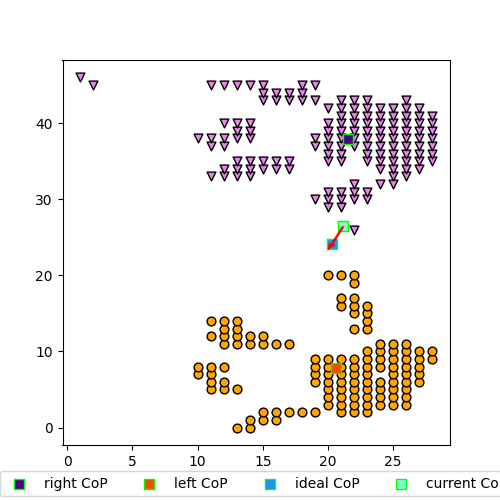
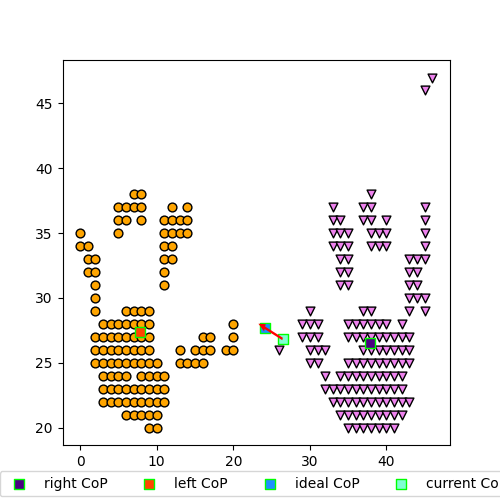
fix transformations

diff --git a/Software/Testing/haptic_assisted_inversions_device_test.py b/Software/Testing/haptic_assisted_inversions_device_test.py
@@ -55,7 +55,7 @@ class Haptic_Assisted_Inversions_Device_Mat_Test(unittest.TestCase):
 
     #make sure can find 2 clusters with a simple 2d mat
     def test_kmeans(self):
-        hands_array = np.array([[0.0, 1.0, 0.0], [0.0, 0.0, 0.0], [0.0, 2.0, 0.0]])
+        hands_array = np.array([[0.0, 0.0, 0.0], [1.0, 0.0, 2.0], [0.0, 0.0, 0.0]])
         m = Mat(hands_array)
         h = Hands()
         h.run_kmeans(m.Values, 3, 3)
@@ -64,7 +64,7 @@ class Haptic_Assisted_Inversions_Device_Mat_Test(unittest.TestCase):
 
     #make sure can find and separate 2 UNORDERED hands with a simple 2d mat
     def test_isolate_hands_unordered(self):
-        hands_array = np.array([[0.0, 1.0, 0.0], [0.0, 0.0, 0.0], [0.0, 2.0, 0.0]])
+        hands_array = np.array([[0.0, 0.0, 0.0], [1.0, 0.0, 2.0], [0.0, 0.0, 0.0]])
         m = Mat(hands_array)
 
         h = Hands()
@@ -88,15 +88,8 @@ class Haptic_Assisted_Inversions_Device_Mat_Test(unittest.TestCase):
         h.isolate_hands(m.Values)
         h.generate_cops()
 
-        # for j in range(3-1, -1, -1):
-        #     tmp = ""
-        #     for i in range(3):
-        #         tmp = tmp +   hex(int(m.Values[i][j]))[-1]
-        #     print(tmp)
-        # print("\n")
-
-        self.assertEqual(h.get_right_hand().get_points().get((1, 2)), 2.0)
-        self.assertEqual(h.get_left_hand().get_points().get((1, 0)), 1.0)
+        self.assertEqual(h.get_right_hand().get_points().get((2, 1)), 2.0)
+        self.assertEqual(h.get_left_hand().get_points().get((0, 1)), 1.0)
 
     #make sure the basic cop calculation function works
     def test_calculate_cop(self):
@@ -120,9 +113,9 @@ class Haptic_Assisted_Inversions_Device_Mat_Test(unittest.TestCase):
         h.isolate_hands(m.Values)
         h.generate_cops()
 
-        self.assertEqual(h.get_right_hand().get_cop(), [1.0, 2.0])
-        self.assertEqual(h.get_left_hand().get_cop(), [1.0, 0.0])
-        self.assertEqual(h.get_cop(), [1.0, 4.0/3.0])
+        self.assertEqual(h.get_right_hand().get_cop(), [2.0, 1.0])
+        self.assertEqual(h.get_left_hand().get_cop(), [0.0, 1.0])
+        self.assertEqual(h.get_cop(), [4.0/3.0, 1.0])
         self.assertEqual(h.get_ideal_cop(), [1.0, 1.0])
 
     #make sure the basic vector calculation function works
@@ -137,7 +130,7 @@ class Haptic_Assisted_Inversions_Device_Mat_Test(unittest.TestCase):
 
     #make sure the vector is calculated properly using a simple mat example
     def test_vector(self):
-        hands_array = np.array([[0.0, 1.0, 0.0], [0.0, 0.0, 0.0], [0.0, 2.0,0.0]])
+        hands_array = np.array([[0.0, 0.0, 0.0], [1.0, 0.0, 2.0], [0.0, 0.0,0.0]])
         m = Mat(hands_array)
 
         h = Hands()
@@ -167,12 +160,12 @@ class Haptic_Assisted_Inversions_Device_Mat_Test(unittest.TestCase):
 
         right = h.get_right_hand()
         left = h.get_left_hand()
-        print("right: ", right.get_points())
-        print("left: ", left.get_points())
+        #print("right: ", right.get_points())
+        #print("left: ", left.get_points())
 
         h.find_correction_vector()
-        print(f"CoP: {h.cop} - ideal {h.ideal_cop}")
-        print("vector: ", h.get_correction_vector())
+        #print(f"CoP: {h.cop} - ideal {h.ideal_cop}")
+        #print("vector: ", h.get_correction_vector())
         h.select_actuators()
 
         print("actuators: ", h.actuators)
@@ -191,6 +184,7 @@ class Haptic_Assisted_Inversions_Device_Mat_Test(unittest.TestCase):
         hands_array = np.load(os.getcwd() + "/hands_rot.npy")
         m = Mat(hands_array)
         #tm = np.rot90(m.Values, 2)
+        print(m)
 
         h = Hands()
         h.run_kmeans(hands_array)
@@ -203,10 +197,10 @@ class Haptic_Assisted_Inversions_Device_Mat_Test(unittest.TestCase):
         plt.ion()
         script_dir = os.path.dirname(__file__)
         results_dir = os.path.join(script_dir, 'Results/')
-        sample_file_name = 'test'
-        #sample_file_name = 'correction_'+datetime.datetime.now().strftime("%d/%m/%Y-%H:%M:%S")+'.png'
+        sample_file_name = results_dir+'test'
+        #sample_file_name = results_dir+'correction_'+datetime.datetime.now().strftime("%d/%m/%Y-%H:%M:%S")+'.png'
 
-        hand_utils.generate_scatter_plot(h.kmeans, h.coords_only, h.get_right_hand().get_cop(), h.get_left_hand().get_cop(), h.get_ideal_cop(), h.get_cop(), figure, fp=results_dir+sample_file_name)
+        hand_utils.generate_scatter_plot(h.kmeans, h.coords_only, h.get_right_hand().get_cop(), h.get_left_hand().get_cop(), h.get_ideal_cop(), h.get_cop(), figure, fp=sample_file_name)
         plt.show()
 
         #print(actuators)

diff --git a/Software/Hands.py b/Software/Hands.py
@@ -75,11 +75,11 @@ class Hands:
         # of the points--not the sensor reading--when clustering.
         index = 0
 
-        for row in range(r):
-            for col in range(c):
-                if Z[row][col]!=0:
-                    self.coords_only.append([row, col])
-                    #print(Z[row][col])
+        for x in range(c): #x
+            for y in range(r): #y
+                if Z[y][x]!=0:
+                    self.coords_only.append([x, y])
+                    #print(Z[x][y])
                 index+=1
 
         if not self.coords_only:
@@ -93,17 +93,17 @@ class Hands:
         index = 0
         h1_index = 0
         h2_index = 0
-        for row in range(ROW_SIZE):
-            for col in range(COL_SIZE):
-                #print("Looking at: ", row, ",",col)
-                if ([row, col] in self.coords_only):
+        for x in range(COL_SIZE):
+            for y in range(ROW_SIZE):
+                #print("Looking at: ", x, ",",y)
+                if ([x, y] in self.coords_only):
                     if (self.kmeans.labels_[index] == 0): #h1
-                        #print("Adding to h1\nkey: ", row, ",", col, "\nvalue: ", Z[row][col])
-                        self.h1.add_point((row, col), Z[row][col])
+                        #print("Adding to h1\nkey: ", x, ",", y, "\nvalue: ", Z[y][x])
+                        self.h1.add_point((x, y), Z[y][x])
                         h1_index+=1
                     if (self.kmeans.labels_[index] == 1): #h2
-                        #print("Adding to h2\nkey: ", row, ",", col, "\nvalue: ", Z[row][col])
-                        self.h2.add_point((row, col), Z[row][col])
+                        #print("Adding to h2\nkey: ", x, ",", y, "\nvalue: ", Z[y][x])
+                        self.h2.add_point((x, y), Z[y][x])
                         h2_index+=1
                     index+=1
 
@@ -112,7 +112,7 @@ class Hands:
         cop1 = hand_utils.calculate_cop(self.h1.get_points())
         cop2 = hand_utils.calculate_cop(self.h2.get_points())
 
-        if(cop1[1] < cop2[1]): #h1 is left hand
+        if(cop1[0] < cop2[0]): #h1 is left hand
             self.h2.set_right(cop2)
             self.h1.set_left(cop1)
         
@@ -124,6 +124,8 @@ class Hands:
         both_hands = dict()
         both_hands.update(self.h1.get_points())
         both_hands.update(self.h2.get_points())
+        #print("both hands: ")
+        #print(both_hands)
         self.cop = hand_utils.calculate_cop(both_hands)
 
         ideal_hands = dict()
@@ -138,31 +140,31 @@ class Hands:
     # each hand represents L or R
     # within hand only I and W actuators
     # less granular than using 4
-    # x value -> aka index or wrist
-    # if == 0 => activate both actuators to evenly shift to one side
+    # x value -> aka left or right hand
+    # if == 0 => activate both actuators to evenly shift towards index or wrist
     def select_actuators(self):
         li = False
         lw = False
         ri = False
         rw = False
-        if(self.correction_vector[0] >= 0): #wrist
-            lw, rw = self.check_y_value()
-        if(self.correction_vector[0] <= 0): #index
-            li, ri = self.check_y_value()
+        if(self.correction_vector[0] >= 0): #right
+            ri, rw = self.check_y_value()
+        if(self.correction_vector[0] <= 0): #left
+            li, lw = self.check_y_value()
         self.actuators.set_right_status(ri, rw)
         self.actuators.set_left_status(li, lw)
         return self.actuators
     
-    # y value -> aka left or right hand
-    # if == 0 => activate both actuators to evenly shift towards index or wrist
+    # y value -> aka index or wrist
+    # if == 0 => activate both actuators to evenly shift to one side
     def check_y_value(self):
-        l = False
-        r = False
-        if(self.correction_vector[1] <= 0): #left
-            l = True
-        if(self.correction_vector[1] >= 0): #right
-            r = True
-        return l, r
+        i = False
+        w = False
+        if(self.correction_vector[1] <= 0): #index
+            i = True
+        if(self.correction_vector[1] >= 0): #wrist
+            w = True
+        return i, w
 
     def set_right(self, index=False, wrist=False):
         self.actuators.set_right_status(index, wrist)

diff --git a/Software/hand_utils.py b/Software/hand_utils.py
@@ -55,20 +55,24 @@ def calculate_cop(pv_dict):
 def create_vector(start, end):
     return (end[0]-start[0], end[1]-start[1])
 
-def generate_scatter_plot(kmeans, coords_only, rcop, lcop, ideal_cop, actual_cop, figure, r=ROW_SIZE, c=COL_SIZE, fp=FIG_PATH):
+def get_filepath():
+    return './Results/correction_'+datetime.datetime.now().strftime("%d/%m/%Y-%H:%M:%S")+'.png'
+
+def generate_scatter_plot(kmeans, coords_only, rcop, lcop, ideal_cop, actual_cop, figure, r=ROW_SIZE, c=COL_SIZE, fp=get_filepath()):
     index = 0
-    for row in range(r):
-        for col in range(c):
-            if [row, col] in coords_only:
+    for x in range(c): #x
+        for y in range(r): #y
+            if [x, y] in coords_only:
+                #print("looking at: "+str(col)+","+str(row))
                 if kmeans.labels_[index] == 0:
                     plt.scatter(
-                        row, col,
+                        x, -y+COL_SIZE,
                         s=40, c='orange',
                         marker='o', edgecolor='black'
                     )
                 if kmeans.labels_[index] == 1:
                     plt.scatter(
-                        row, col,
+                        x, -y+COL_SIZE,
                         s=40, c='violet',
                         marker='v', edgecolor='black'
                     )
@@ -76,30 +80,30 @@ def generate_scatter_plot(kmeans, coords_only, rcop, lcop, ideal_cop, actual_cop
 
     # add center of pressure markers
     plt.scatter(
-        rcop[0], rcop[1],
+        rcop[0], -rcop[1]+COL_SIZE,
         s=60, c='indigo',
         marker='s', edgecolor='lime', label='right CoP'
         )
     plt.scatter(
-        lcop[0], lcop[1],
+        lcop[0], -lcop[1]+COL_SIZE,
         s=60, c='orangered',
         marker='s', edgecolor='lime', label='left CoP'
         )
     plt.scatter(
-        ideal_cop[0], ideal_cop[1],
+        ideal_cop[0], -ideal_cop[1]+COL_SIZE,
         s=60, c='dodgerblue',
         marker='s', edgecolor='lime', label='ideal CoP'
         )
     plt.scatter(
-        actual_cop[0], actual_cop[1],
+        actual_cop[0], -actual_cop[1]+COL_SIZE,
         s=60, c='aquamarine',
         marker='s', edgecolor='lime', label='current CoP'
         )
 
     # add vector
     dx = ideal_cop[0] - actual_cop[0]
-    dy = ideal_cop[1] - actual_cop[1]
-    plt.arrow(actual_cop[0], actual_cop[1], dx, dy, facecolor = "red", edgecolor = "none", width=.2)
+    dy = -(ideal_cop[1] - actual_cop[1])
+    plt.arrow(actual_cop[0], -actual_cop[1]+COL_SIZE, dx, dy, facecolor = "red", edgecolor = "none", width=.2)
 
     # add legend
     plt.legend(loc='upper center', bbox_to_anchor=(0.5, -0.05), 

diff --git a/Software/Mat.py b/Software/Mat.py
@@ -7,8 +7,8 @@ import serial.tools.list_ports
 np.set_printoptions(threshold=sys.maxsize)
 
 # Default parameters
-ROW_SIZE = 48  # Rows of the sensor
-COL_SIZE = 48  # Columns of the sensor
+ROWS = 48  # Rows of the sensor
+COLS = 48  # Columns of the sensor
 DEFAULT_PORT = '/dev/cu.usbmodem104742601'
 FIG_PATH = './Results/contour.png'
 
@@ -22,14 +22,14 @@ class Mat:
                 port,
                 baudrate=115200,
                 timeout=0.1)
-            self.Values = np.zeros((ROW_SIZE, COL_SIZE))
+            self.Values = np.zeros((ROWS, COLS))
 
     def request_pressure_map(self):
         data = "R"
         print(f"N bytes written: {self.ser.write(data.encode())}")
 
     def active_points_receive_map(self):
-        matrix = np.zeros((ROW_SIZE, COL_SIZE), dtype=int)
+        matrix = np.zeros((ROWS, COLS), dtype=int)
 
         xbyte = self.ser.read().decode('utf-8')
 
@@ -74,13 +74,21 @@ class Mat:
         self.request_pressure_map()
         self.active_points_get_map()
 
+    def printMatrix(self, c=COLS, r=ROWS):
+        for x in range(c): #x
+            tmp = ""
+            for y in range(r): #y
+                tmp = tmp +   hex(int(self.Values[x][y]))[-1]
+            print(tmp)
+        print("\n")
+
 
     def __str__(self):
         s = ""
-        for j in range(COL_SIZE-1, -1, -1):
+        for x in range(COLS): #x
             tmp = ""
-            for i in range(ROW_SIZE):
-                tmp = tmp +   hex(int(self.Values[i][j]))[-1]
+            for y in range(ROWS): #y
+                tmp = tmp +   hex(int(self.Values[x][y]))[-1]
             s = s+tmp
             s = s+"\n"
 

diff --git a/Software/PressureMatPosture.py b/Software/PressureMatPosture.py
@@ -84,18 +84,18 @@ class Mat:
     
     def plotMatrix(self, c=COLS, r=ROWS):
         tmparray = np.zeros((r, c))
-        for i in range(c):
+        for x in range(c): #x
             tmp = ""
-            for j in range(r):
-                tmp = int(self.Values[i][j])
-                tmparray[i][j] = tmp
+            for y in range(r): #y
+                tmp = int(self.Values[x][y])
+                tmparray[x][y] = tmp
         generatePlot(tmparray)
 
     def printMatrix(self, c=COLS, r=ROWS):
-        for i in range(c):
+        for x in range(c): #x
             tmp = ""
-            for j in range(r):
-                tmp = tmp +   hex(int(self.Values[i][j]))[-1]
+            for y in range(r): #y
+                tmp = tmp +   hex(int(self.Values[x][y]))[-1]
             print(tmp)
         print("\n")
 

diff --git a/Software/haptic_assisted_inversions_device.py b/Software/haptic_assisted_inversions_device.py
@@ -14,8 +14,8 @@ np.set_printoptions(threshold=sys.maxsize)
 from flask import Flask
 
 # Default parameters
-ROW_SIZE = 48  # Rows of the sensor
-COL_SIZE = 48  # Columns of the sensor
+ROWS = 48  # Rows of the sensor
+COLS = 48  # Columns of the sensor
 DEFAULT_PORT = '/dev/cu.usbmodem104742601'
 
 def create_app(data = None):
